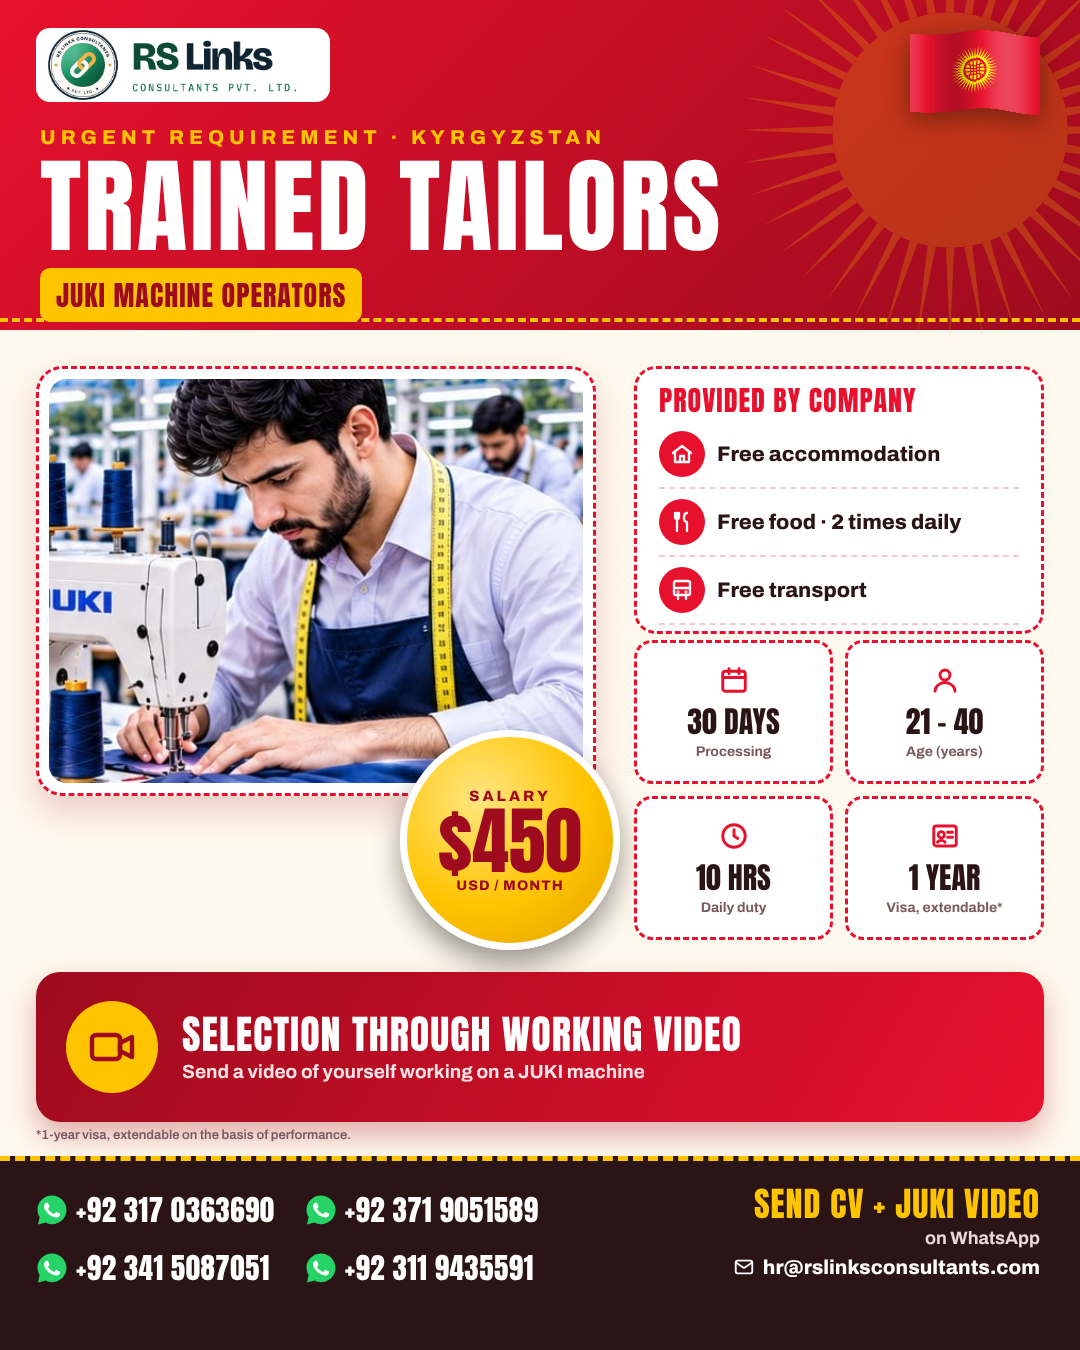
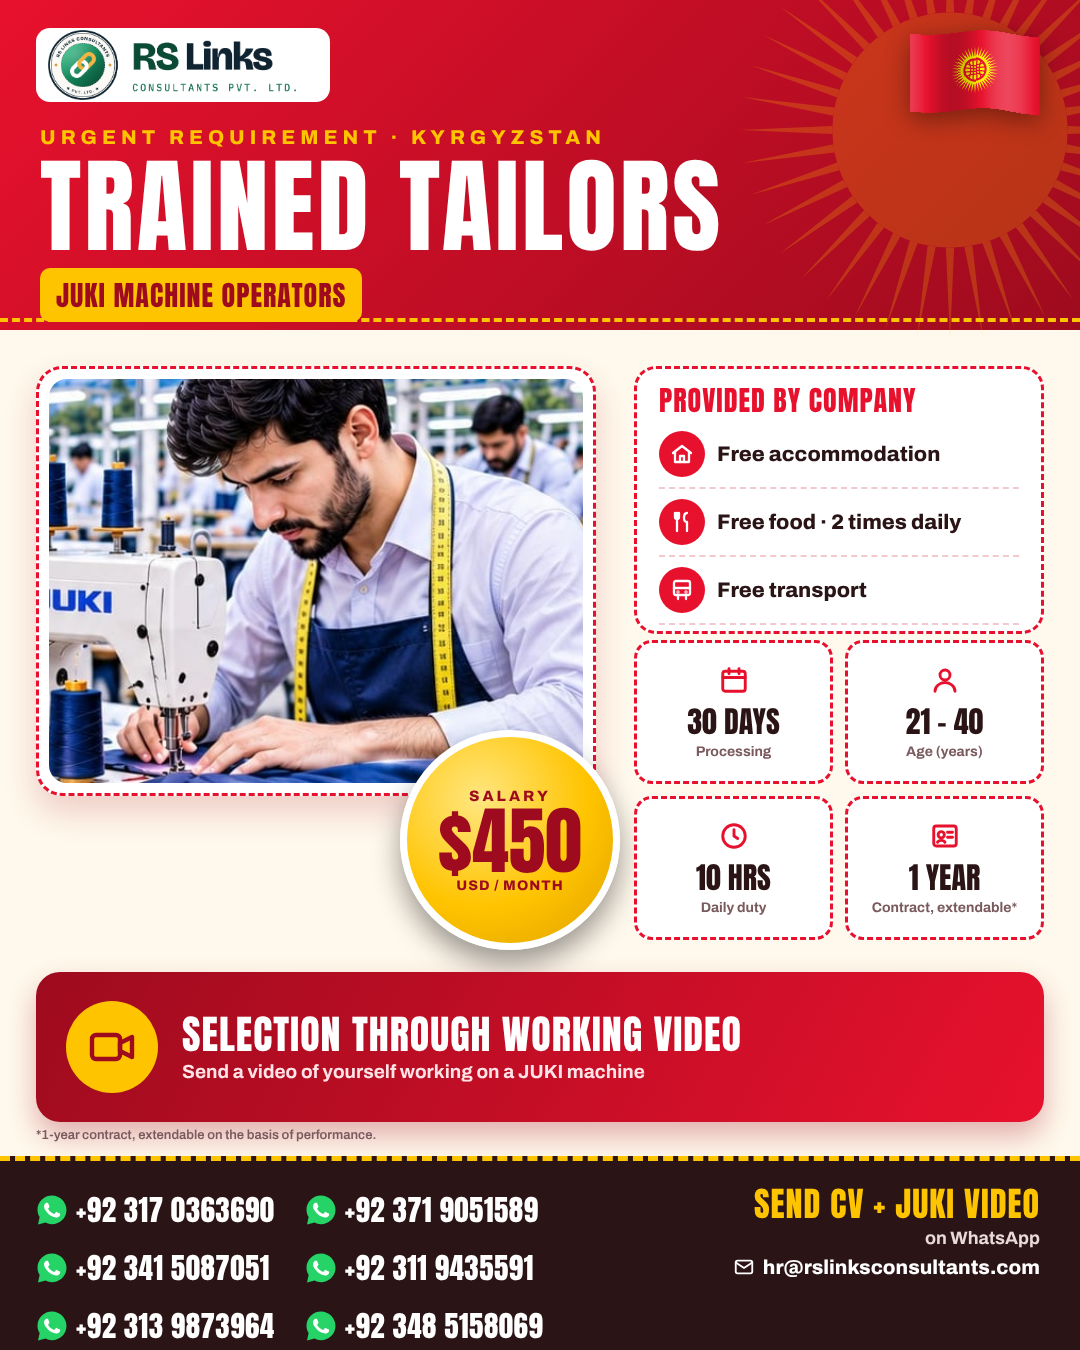
Kyrgyzstan JUKI ads: 6 numbers, no visa wording
Claude-Session: https://claude.ai/code/session_01YJ5ofgU8QCiWTsYR9pvXG4

Changed region(s): [[0.0306, 0.9644, 0.5194, 0.9956], [0.825, 0.6533, 0.9472, 0.6844]]

diff --git a/src/kyrgyzstan_juki_ur.py b/src/kyrgyzstan_juki_ur.py
@@ -27,7 +27,7 @@ def build():
     fac_li = "".join(f"<div style='display:flex;align-items:center;gap:12px;padding:2px 0;border-bottom:2px dashed #F2C9CF'>"
                      f"<span style='width:46px;height:46px;border-radius:50%;background:{RED};display:flex;align-items:center;justify-content:center;flex:none'>{icon(ic, 24, '#fff', 2.3)}</span>"
                      f"{T(t.replace('2', N(2)), 25, INK, 'font-weight:700', 1.85)}</div>" for ic, t in fac)
-    stats = [("calendar", f"{N(30)} دن", "پروسیسنگ"), ("user", f"{N('21 – 40')} سال", "عمر کی حد"), ("clock", f"{N(10)} گھنٹے", "روزانہ ڈیوٹی"), ("visa", f"{N(1)} سال", "ویزا (قابلِ توسیع)*")]
+    stats = [("calendar", f"{N(30)} دن", "پروسیسنگ"), ("user", f"{N('21 – 40')} سال", "عمر کی حد"), ("clock", f"{N(10)} گھنٹے", "روزانہ ڈیوٹی"), ("visa", f"{N(1)} سال", "معاہدہ (قابلِ توسیع)*")]
     stat = "".join(f"<div style='background:#fff;border-radius:18px;{stitch};display:flex;flex-direction:column;align-items:center;justify-content:center'>"
                    f"{icon(ic, 30, RED, 2.3)}{T(v, 28, INK, 'font-weight:700;margin-top:2px', 1.6)}{T(l, 17, '#7A5A5E', 'font-weight:700;margin-top:12px', 1.4)}</div>" for ic, v, l in stats)
     nums = "".join(f"<div style='display:flex;align-items:center;gap:8px'>{whatsapp_icon(32)}<span style='font:400 29px Anton;color:#fff;letter-spacing:.5px'>{n}</span></div>" for n in PHONES)
@@ -54,7 +54,7 @@ def build():
  <span style='width:92px;height:92px;border-radius:50%;background:{SUN};display:flex;align-items:center;justify-content:center;flex:none'>{icon('video', 48, RED2, 2.2)}</span>
  <div>{T('سلیکشن ورکنگ ویڈیو کے ذریعے', 38, '#fff', 'font-weight:700;margin-bottom:10px', 1.6)}
  {T('جوکی مشین پر کام کرتے ہوئے اپنی ویڈیو بھیجیں', 22, '#FFE3E6', 'font-weight:700', 1.7)}</div></div>
-<div class='abs' style='top:1124px;right:36px;left:36px;text-align:right'>{T(f"* {N(1)} سال کا ویزا، کارکردگی کی بنیاد پر قابلِ توسیع", 16, '#7A5A5E', 'font-weight:700', 1.6)}</div>
+<div class='abs' style='top:1124px;right:36px;left:36px;text-align:right'>{T(f"* {N(1)} سال کا معاہدہ، کارکردگی کی بنیاد پر قابلِ توسیع", 16, '#7A5A5E', 'font-weight:700', 1.6)}</div>
 
 <div class='abs' style='top:1166px;left:0;width:1080px;height:184px;background:{INK};border-top:5px dashed {SUN}'></div>
 <div class='abs' style='top:1194px;left:36px;display:grid;grid-template-columns:auto auto;gap:14px 30px;direction:ltr'>{nums}</div>

diff --git a/src/kyrgyzstan_tailors_juki.py b/src/kyrgyzstan_tailors_juki.py
@@ -25,7 +25,7 @@ def build():
     fac_li = "".join(f"<div style='display:flex;align-items:center;gap:12px;padding:10px 0;border-bottom:2px dashed #F2C9CF'>"
                      f"<span style='width:46px;height:46px;border-radius:50%;background:{RED};display:flex;align-items:center;justify-content:center;flex:none'>{icon(ic, 24, '#fff', 2.3)}</span>"
                      f"<span style='font:800 21px Archivo;color:{INK}'>{t}</span></div>" for ic, t in fac)
-    stats = [("calendar", "30 DAYS", "Processing"), ("user", "21 – 40", "Age (years)"), ("clock", "10 HRS", "Daily duty"), ("visa", "1 YEAR", "Visa, extendable*")]
+    stats = [("calendar", "30 DAYS", "Processing"), ("user", "21 – 40", "Age (years)"), ("clock", "10 HRS", "Daily duty"), ("visa", "1 YEAR", "Contract, extendable*")]
     stat = "".join(f"<div style='background:#fff;border-radius:18px;{stitch};display:flex;flex-direction:column;align-items:center;justify-content:center'>"
                    f"{icon(ic, 30, RED, 2.3)}<div style='font:400 30px Anton;color:{INK};margin-top:4px'>{v}</div><div style='font:700 14px Archivo;color:#7A5A5E'>{l}</div></div>" for ic, v, l in stats)
     nums = "".join(f"<div style='display:flex;align-items:center;gap:8px'>{whatsapp_icon(32)}<span style='font:400 29px Anton;color:#fff;letter-spacing:.5px'>{n}</span></div>" for n in PHONES)
@@ -52,7 +52,7 @@ def build():
  <span style='width:92px;height:92px;border-radius:50%;background:{SUN};display:flex;align-items:center;justify-content:center;flex:none'>{icon('video', 48, RED2, 2.2)}</span>
  <div><div style='font:400 40px Anton;color:#fff;letter-spacing:1px;line-height:1.05'>SELECTION THROUGH WORKING VIDEO</div>
  <div style='font:700 19px Archivo;color:#FFE3E6;margin-top:6px'>Send a video of yourself working on a JUKI machine</div></div></div>
-<div class='abs' style='top:1128px;left:36px;right:36px;font:600 13px Archivo;color:#7A5A5E'>*1-year visa, extendable on the basis of performance.</div>
+<div class='abs' style='top:1128px;left:36px;right:36px;font:600 13px Archivo;color:#7A5A5E'>*1-year contract, extendable on the basis of performance.</div>
 
 <div class='abs' style='top:1156px;left:0;width:1080px;height:194px;background:{INK};border-top:5px dashed {SUN}'></div>
 <div class='abs' style='top:1188px;left:36px;display:grid;grid-template-columns:auto auto;gap:14px 30px'>{nums}</div>
